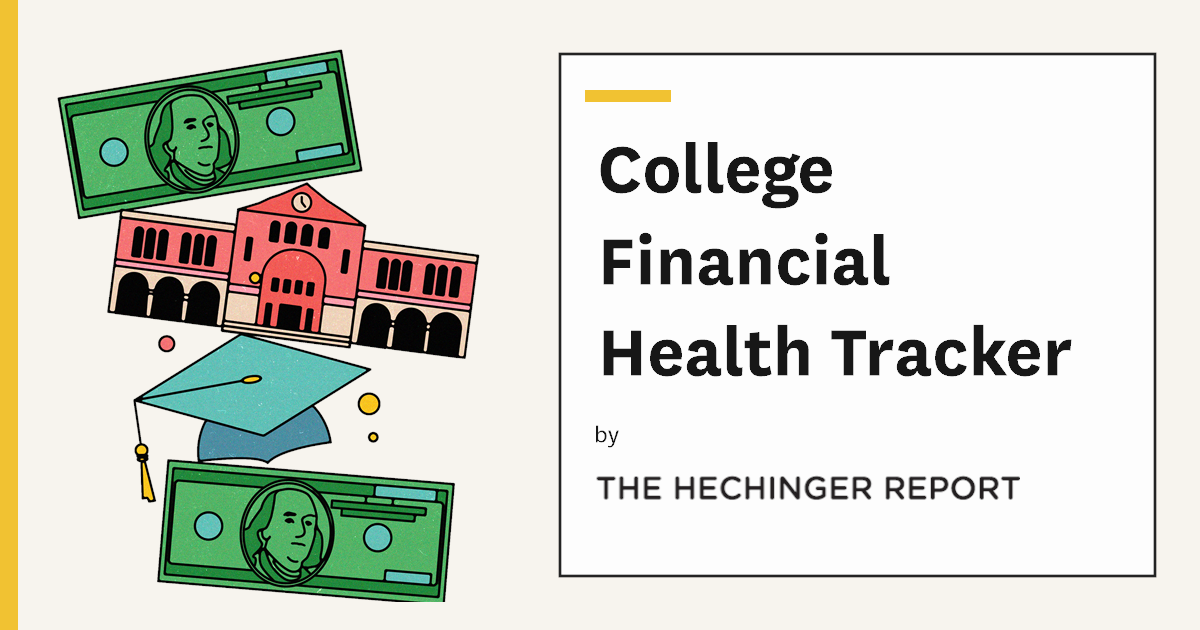
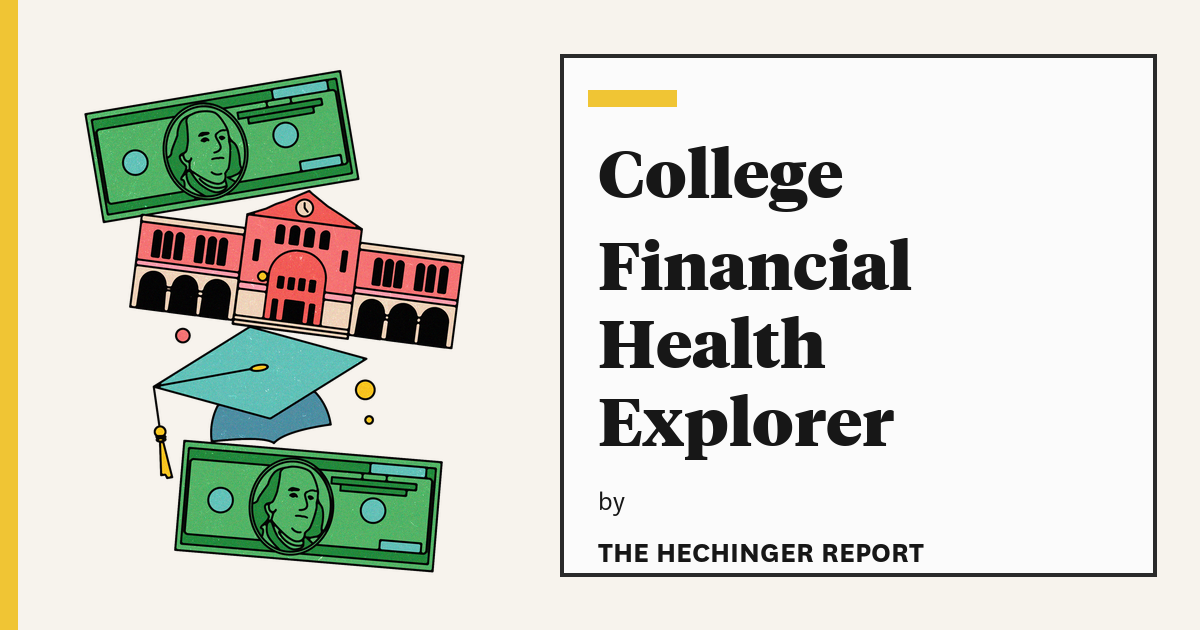
Change share image

Changed region(s): [[0.0308, 0.0603, 0.4008, 0.9651], [0.4625, 0.0603, 0.9558, 0.9349]]

diff --git a/school.html b/school.html
@@ -10,14 +10,17 @@
   <link rel="canonical" href="https://hechingerreport.org/college-financial-health-tracker/school.html">
   <meta property="og:type" content="website">
   <meta property="og:site_name" content="The Hechinger Report">
-  <meta property="og:title" content="Look Up a College's Financial Health">
+  <meta property="og:title" content="College Financial Health Explorer, by The Hechinger Report">
   <meta property="og:description" content="Look up a single college's financial health: revenue and expenses, enrollment trends, endowment, state aid, and any program cuts or accreditation actions.">
   <meta property="og:url" content="https://hechingerreport.org/college-financial-health-tracker/school.html">
   <meta property="og:image" content="https://hechingerreport.org/college-financial-health-tracker/assets/og-image.png">
+  <meta property="og:image:width" content="1200">
+  <meta property="og:image:height" content="630">
+  <meta property="og:image:alt" content="College Financial Health Explorer by The Hechinger Report">
   <meta name="twitter:card" content="summary_large_image">
   <meta name="twitter:site" content="@hechingerreport">
   <meta name="twitter:creator" content="@hechingerreport">
-  <meta name="twitter:title" content="Look Up a College's Financial Health">
+  <meta name="twitter:title" content="College Financial Health Explorer, by The Hechinger Report">
   <meta name="twitter:description" content="Look up a single college's financial health: revenue and expenses, enrollment trends, endowment, state aid, and any program cuts or accreditation actions.">
   <meta name="twitter:image" content="https://hechingerreport.org/college-financial-health-tracker/assets/og-image.png">
   <link rel="stylesheet" href="styles.css">

diff --git a/accreditation.html b/accreditation.html
@@ -14,6 +14,9 @@
   <meta property="og:description" content="Tracking accreditation warnings, probations, show-cause orders, and teach-out approvals from the U.S. regional accreditors, updated as actions are issued.">
   <meta property="og:url" content="https://hechingerreport.org/college-financial-health-tracker/accreditation.html">
   <meta property="og:image" content="https://hechingerreport.org/college-financial-health-tracker/assets/og-image.png">
+  <meta property="og:image:width" content="1200">
+  <meta property="og:image:height" content="630">
+  <meta property="og:image:alt" content="College Financial Health Explorer by The Hechinger Report">
   <meta name="twitter:card" content="summary_large_image">
   <meta name="twitter:site" content="@hechingerreport">
   <meta name="twitter:creator" content="@hechingerreport">

diff --git a/methodology.html b/methodology.html
@@ -14,6 +14,9 @@
   <meta property="og:description" content="How the College Financial Health Tracker is built: data sources, filtering and normalization, and what the financial indicators do and don't tell you.">
   <meta property="og:url" content="https://hechingerreport.org/college-financial-health-tracker/methodology.html">
   <meta property="og:image" content="https://hechingerreport.org/college-financial-health-tracker/assets/og-image.png">
+  <meta property="og:image:width" content="1200">
+  <meta property="og:image:height" content="630">
+  <meta property="og:image:alt" content="College Financial Health Explorer by The Hechinger Report">
   <meta name="twitter:card" content="summary_large_image">
   <meta name="twitter:site" content="@hechingerreport">
   <meta name="twitter:creator" content="@hechingerreport">

diff --git a/research.html b/research.html
@@ -14,6 +14,9 @@
   <meta property="og:description" content="Tracking terminated, frozen, and at-risk federal research grants — NIH, NSF, EPA, CDC — at U.S. universities, drawn from the Grant Witness database.">
   <meta property="og:url" content="https://hechingerreport.org/college-financial-health-tracker/research.html">
   <meta property="og:image" content="https://hechingerreport.org/college-financial-health-tracker/assets/og-image.png">
+  <meta property="og:image:width" content="1200">
+  <meta property="og:image:height" content="630">
+  <meta property="og:image:alt" content="College Financial Health Explorer by The Hechinger Report">
   <meta name="twitter:card" content="summary_large_image">
   <meta name="twitter:site" content="@hechingerreport">
   <meta name="twitter:creator" content="@hechingerreport">

diff --git a/cuts.html b/cuts.html
@@ -14,6 +14,9 @@
   <meta property="og:description" content="Tracking college program cuts, staff and faculty layoffs, and campus closures at U.S. four-year institutions since 2024, with a source for every entry.">
   <meta property="og:url" content="https://hechingerreport.org/college-financial-health-tracker/cuts.html">
   <meta property="og:image" content="https://hechingerreport.org/college-financial-health-tracker/assets/og-image.png">
+  <meta property="og:image:width" content="1200">
+  <meta property="og:image:height" content="630">
+  <meta property="og:image:alt" content="College Financial Health Explorer by The Hechinger Report">
   <meta name="twitter:card" content="summary_large_image">
   <meta name="twitter:site" content="@hechingerreport">
   <meta name="twitter:creator" content="@hechingerreport">

diff --git a/index.html b/index.html
@@ -14,6 +14,9 @@
   <meta property="og:description" content="Track financial distress at U.S. four-year colleges: closures, layoffs, program cuts, accreditation warnings, and research-funding losses, school by school.">
   <meta property="og:url" content="https://hechingerreport.org/college-financial-health-tracker/">
   <meta property="og:image" content="https://hechingerreport.org/college-financial-health-tracker/assets/og-image.png">
+  <meta property="og:image:width" content="1200">
+  <meta property="og:image:height" content="630">
+  <meta property="og:image:alt" content="College Financial Health Explorer by The Hechinger Report">
   <meta name="twitter:card" content="summary_large_image">
   <meta name="twitter:site" content="@hechingerreport">
   <meta name="twitter:creator" content="@hechingerreport">
